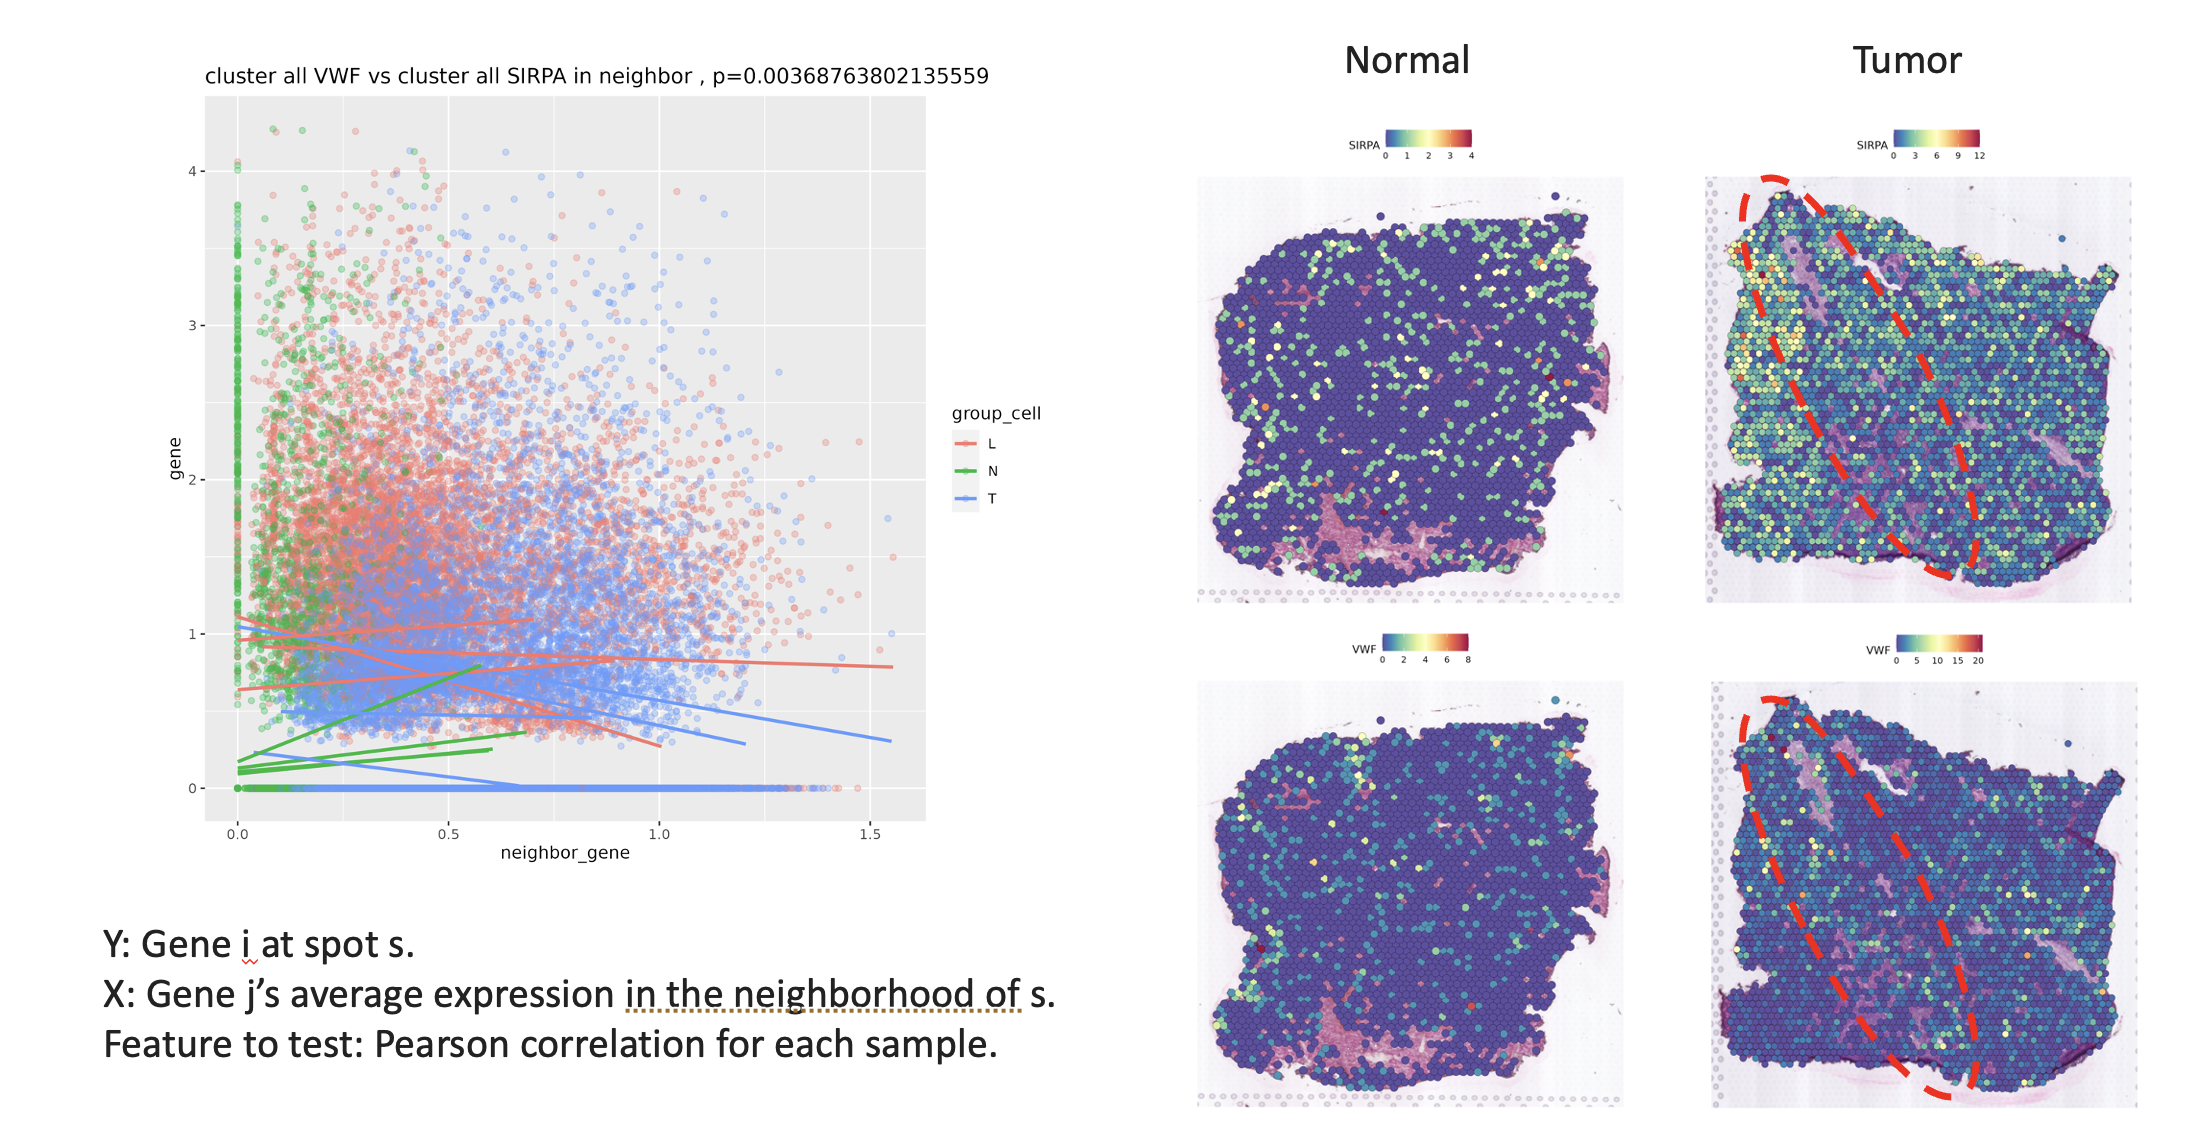
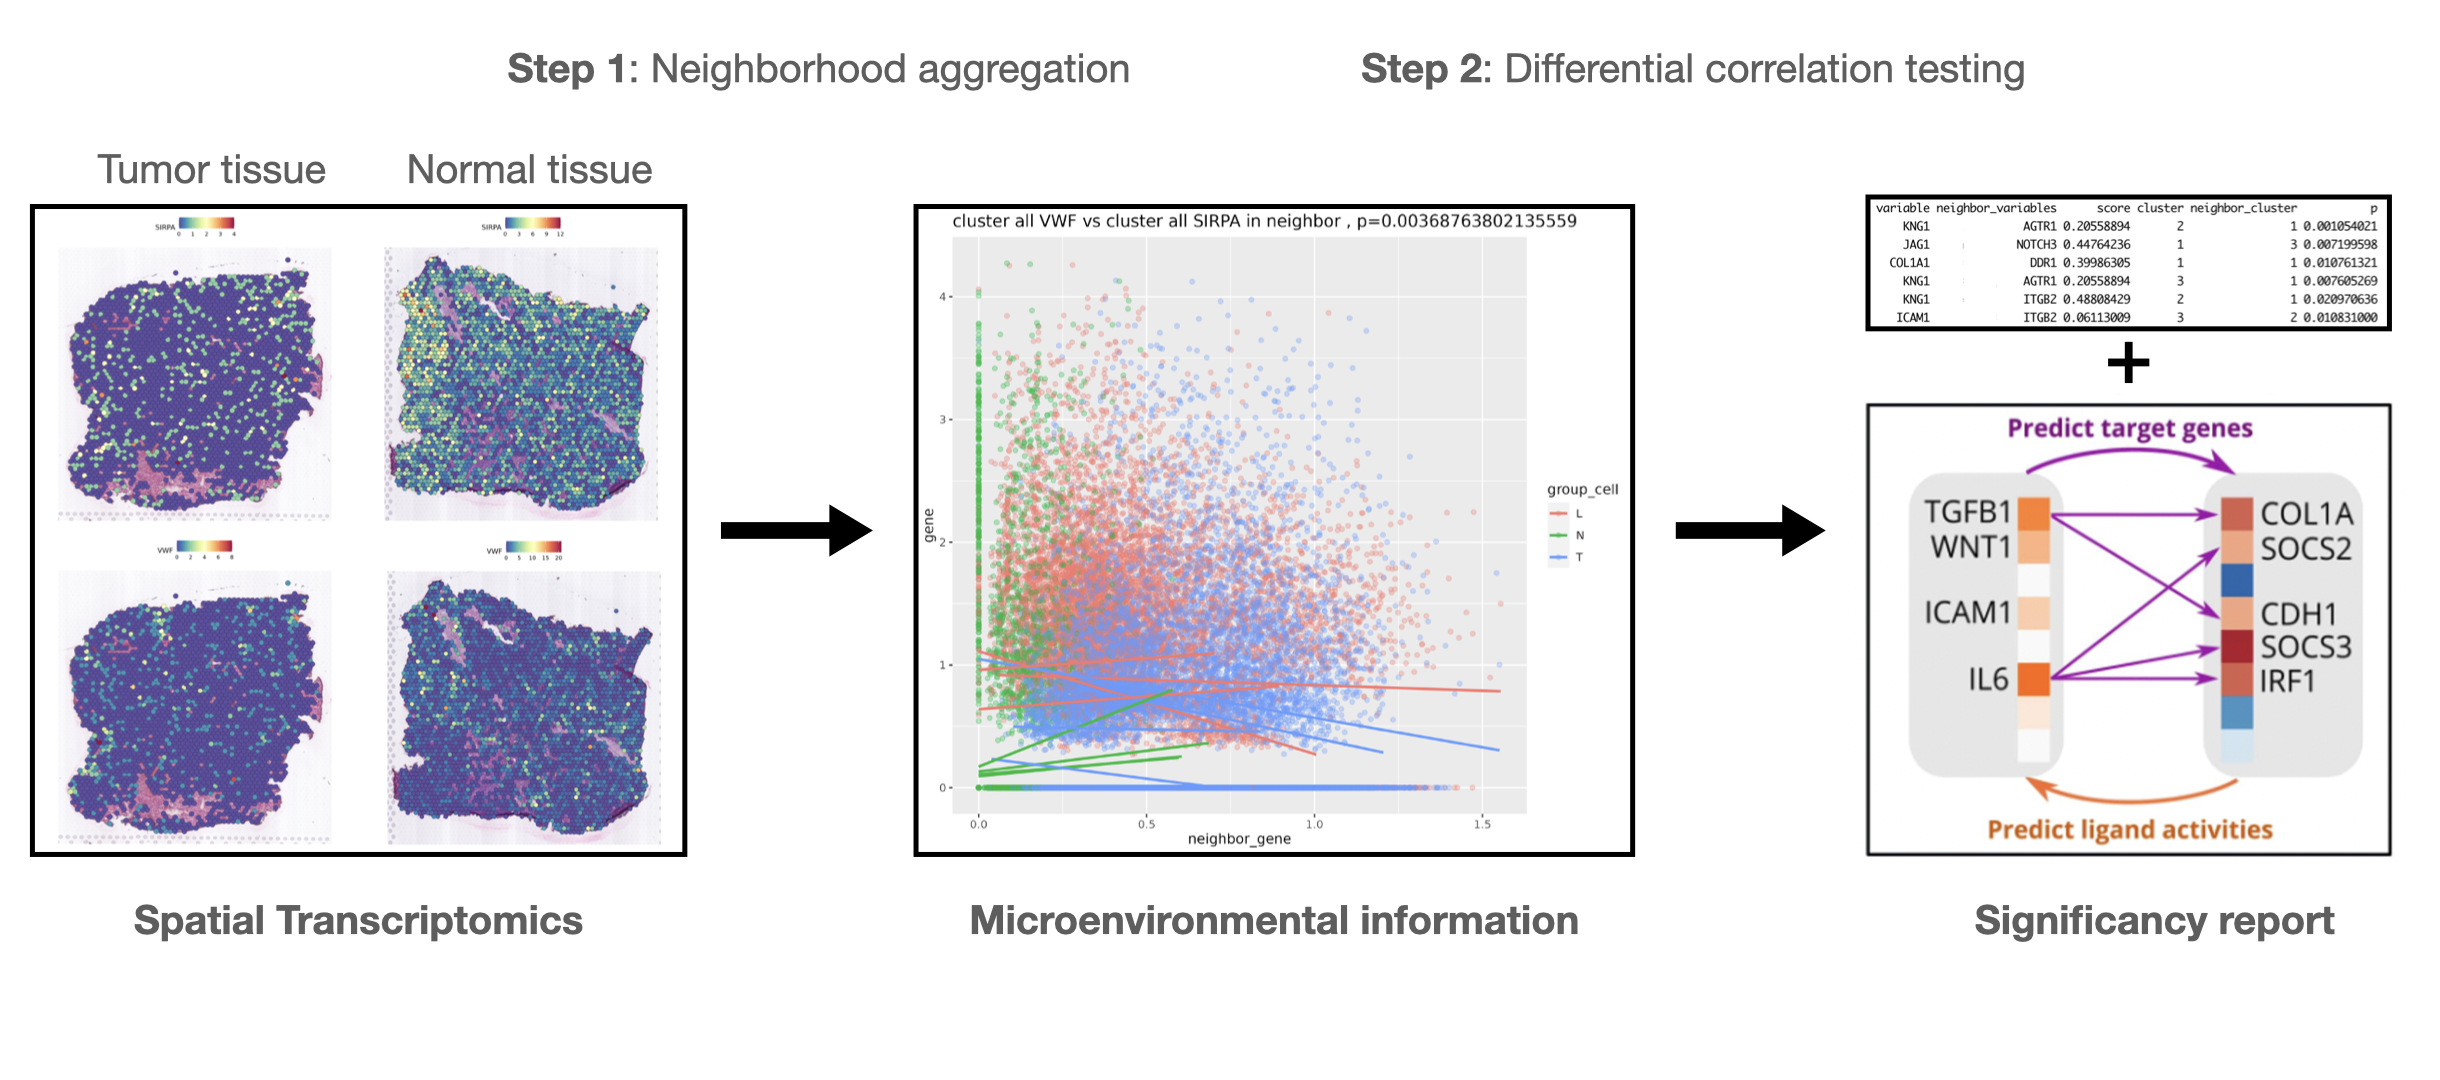
Updated projects

diff --git a/_pages/projects.md b/_pages/projects.md
@@ -16,27 +16,28 @@ With the rapid advancement of modern technology, data containing spatial informa
 
 ## Neural Networks for Geospatial Data
 
-Analysis of geospatial data has traditionally been model-based, with a fixed mean model, customarily specified as a linear regression on the covariates, and a Gaussian process covariance model, encoding the spatial dependence. We propose **NN-GLS** that embeds neural networks directly within the traditional Gaussian process (GP) geostatistical model to accommodate non-linear mean functions while retaining all other advantages of GP, like explicit modeling of the spatial covariance and predicting at new locations via kriging.
+Analysis of geospatial data has traditionally been model-based, with a fixed mean model, customarily specified as a linear regression on the covariates, and a Gaussian process covariance model, encoding the spatial dependence. We propose [NN-GLS](https://www.tandfonline.com/doi/full/10.1080/01621459.2024.2356293) that embeds neural networks directly within the traditional Gaussian process (GP) geostatistical model to accommodate non-linear mean functions while retaining all other advantages of GP, like explicit modeling of the spatial covariance and predicting at new locations via kriging.
 
 We provide the first large-sample results for any neural network algorithm for irregular spatial data, including the consistency and finite sample concentration rates which quantifies the need to accurately model the spatial covariance in neural networks for dependent data. 
 
 NN-GLS admits a representation as a special type of graph neural network, which takes kriging weights for graph convolution. The idea can be easily generalized to a wider range of deep-learning approach, which led to "spatially-informed deep-learning" as a promising future direction.
 
 **Related publications**
-- Zhan, W., & Datta, A. (2024). Neural networks for geospatial data. Journal of the American Statistical Association, 1–21.
+- Zhan, W., & Datta, A. (2024). Neural networks for geospatial data. Journal of the American Statistical Association, 1–21. [link](https://www.tandfonline.com/doi/full/10.1080/01621459.2024.2356293)
 
-{% include figure.liquid path="assets/img/real_3.png" width="95%" caption='Prediction interval from NN-GLS' %}
+
+{% include figure.liquid path="assets/img/updated_NN_figure.png" caption='' width="95%" %}
 
 ---
 
-## GeospaNN: a formal implementation of the Neural Networks for geospatial data
+## GeospaNN: A python package
 
-GeospaNN is a package for geospatial analysis using neural networks that explicitly accounts for spatial correlation in the data. The package implements the NN-GLS method and is developed using PyTorch and under the framework of PyG library. GeospaNN is a geographically-informed Graph Neural Network (GNN) for analyzing large and irregular geospatial data, that combines multi-layer perceptrons, Gaussian processes, and generalized least squares (GLS) loss. GeospaNN offers both regression function estimation and spatial prediction. The sparse approximation in NN-GLS allows efficient computation in geospaNN, which scale up to sample sizes of hundreds of thousands.
+[GeospaNN](https://wentaozhan1998.github.io/geospaNN-doc/) is a package for geospatial analysis using neural networks that explicitly accounts for spatial correlation in the data. The package implements the NN-GLS method and is developed using PyTorch and under the framework of PyG library. GeospaNN is a geographically-informed Graph Neural Network (GNN) for analyzing large and irregular geospatial data, that combines multi-layer perceptrons, Gaussian processes, and generalized least squares (GLS) loss. GeospaNN offers both regression function estimation and spatial prediction. The sparse approximation in NN-GLS allows efficient computation in geospaNN, which scale up to sample sizes of hundreds of thousands.
 
 **Related publications**
-- Zhan, W., & Datta, A. (2024). GeospaNN: an Implementation of Geospatial Neural Networks (Manuscript in prepartion)
+- Zhan, W., & Datta, A. (2024). GeospaNN: an Implementation of Geospatial Neural Networks (Manuscript in preparation)
 
-{% include figure.liquid path="assets/img/updated_NN_figure.png" caption='Architecture geospaNN' width="95%" %}
+{% include figure.liquid path="assets/img/updated_NN_figure.png" width="95%" caption='Architecture of geospaNN' %}
 
 ---
 
@@ -51,4 +52,4 @@ We introduce Multispa, a statistical tool that leverages spatial information to 
 **Related publications**
 - Zhan, W., & Ji, H (2024). Multispa: a multi-sample cell-microenvironment tool for spatial transcriptomics  (Manuscript in prepartion)
 
-{% include figure.liquid path="assets/img/spatial.png" caption='Differential gene regulation' width="95%" %}
+{% include figure.liquid path="assets/img/Spatial" caption='Differential gene regulation' width="95%" %}
